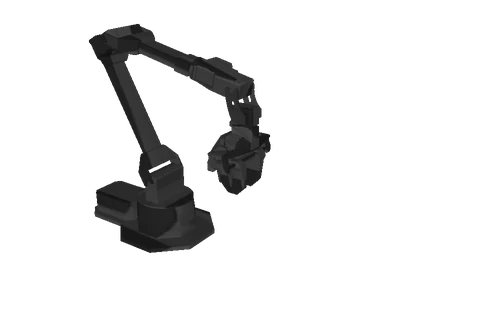
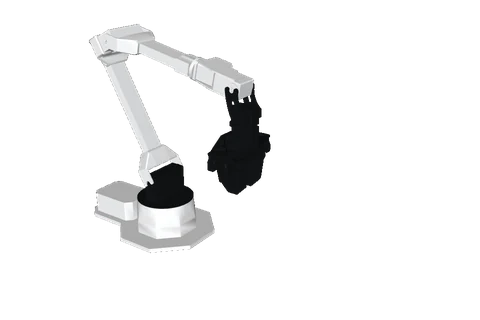
Card pictures are drawn in the same black and white as the library, the warm-up also builds the SO-101 and every gripper pairing first, and combinations that cannot be built are marked rather than retried

Changed region(s): [[0.1875, 0.0625, 0.5625, 0.8125]]

diff --git a/src/vla_forge/thumbs.py b/src/vla_forge/thumbs.py
@@ -9,6 +9,7 @@ nothing assembles in the browser until an arm is picked. `python -m vla_forge.th
 from __future__ import annotations
 
 import math
+import re
 import sys
 from pathlib import Path
 
@@ -39,6 +40,41 @@ def wanted() -> list[tuple[str, str, str | None]]:
     return out
 
 
+# the robots are drawn black and white: the same roles and colours as web/studio.js robotMaterial, so a card
+# picture matches the library and the live preview
+SHELL, SERVO, STEEL = (
+    (0.945, 0.949, 0.953, 1),
+    (0.078, 0.082, 0.094, 1),
+    (0.44, 0.455, 0.48, 1),
+)
+_SERVO_NAME = re.compile(
+    r"motor|sts3215|horn|prop|gripper_bar|finger|_7_gripper|_6_wrist|_2_shoulder|hand_|robotiq.*(base|driver|coupler|follower|spring)",
+    re.IGNORECASE,
+)
+_NOT_SERVO = re.compile(r"moving_jaw|Moving_Jaw|gripper_moving_finger|static_finger$")
+
+
+def _recolour(m: mujoco.MjModel) -> None:
+    for g in range(m.ngeom):
+        if (
+            m.geom_group[g] != VISUAL_GROUP
+            or m.geom_type[g] != mujoco.mjtGeom.mjGEOM_MESH
+        ):
+            continue
+        name = (
+            mujoco.mj_id2name(m, mujoco.mjtObj.mjOBJ_MESH, int(m.geom_dataid[g])) or ""
+        )
+        mat = m.geom_matid[g]
+        rgba = m.mat_rgba[mat] if mat >= 0 else m.geom_rgba[g]
+        lum = 0.299 * rgba[0] + 0.587 * rgba[1] + 0.114 * rgba[2]
+        if _SERVO_NAME.search(name) and not _NOT_SERVO.search(name):
+            colour = SERVO
+        else:
+            colour = SHELL if lum > 0.62 else SERVO if lum < 0.3 else STEEL
+        m.geom_rgba[g] = colour
+        m.geom_matid[g] = -1
+
+
 def _on_arm(slot: str, part: str, arm: str) -> str:
     return R.make_id(arm, part if slot == "wrist" else "native")
 
@@ -46,6 +82,7 @@ def _on_arm(slot: str, part: str, arm: str) -> str:
 def _render(
     m: mujoco.MjModel, d: mujoco.MjData, box, direction, pad: float
 ) -> Image.Image:
+    _recolour(m)
     lo, hi = np.asarray(box[0]), np.asarray(box[1])
     centre = (lo + hi) / 2
     size = max(float(np.linalg.norm(hi - lo)), 0.05)
@@ -116,8 +153,7 @@ def missing() -> list[tuple[str, str, str | None]]:
 
 def warm_needed() -> bool:
     return bool(missing()) or any(
-        not (robotcache.ROOT / f"{robotcache.config_key(c)}.report.json.gz").exists()
-        for c in robotcache.configs()
+        not robotcache.warmed(c) for c in robotcache.configs()
     )
 
 
@@ -126,8 +162,7 @@ def main(argv: list[str] | None = None) -> None:
     for item in wanted() if force else missing():
         save(*item)
     for rid in robotcache.configs():
-        robotcache.view_blob(rid)
-        robotcache.report_blob(rid)
+        robotcache.warm(rid)
 
 
 if __name__ == "__main__":

diff --git a/src/vla_forge/robotcache.py b/src/vla_forge/robotcache.py
@@ -116,5 +116,32 @@ def part_blob(slot: str, part: str) -> tuple[bytes, str]:
 
 
 def configs() -> list[str]:
-    """Every robot id the arm cards and the wrist cards can ask for: each arm with its own wrist and a locked one."""
-    return [R.make_id(a, w) for a in R.ARMS for w in R.WRISTS]
+    """Every robot id a pick can ask for: each arm with each wrist choice, and with each sourced gripper."""
+    ids = [R.make_id(a, w) for a in R.ARMS for w in R.WRISTS]
+    grippers = [
+        R.make_id(a, "native", e)
+        for a in R.ARMS
+        for e, v in R.EFFECTORS.items()
+        if v is not None
+    ]
+    return sorted(  # the stock arm first: it is the likeliest first pick
+        ids + grippers,
+        key=lambda i: not i.startswith("so101"),
+    )
+
+
+def warmed(robot_id: str) -> bool:
+    key = config_key(robot_id)
+    return any(
+        (ROOT / f"{key}.{tail}").exists() for tail in ("report.json.gz", "failed")
+    )
+
+
+def warm(robot_id: str) -> None:
+    """Build and store both payloads; a combination that cannot be assembled is marked so it is not retried."""
+    try:
+        view_blob(robot_id)
+        report_blob(robot_id)
+    except Exception:  # noqa: BLE001 - the server answers such a pick with its own error; here it is only skipped
+        ROOT.mkdir(parents=True, exist_ok=True)
+        (ROOT / f"{config_key(robot_id)}.failed").touch()
